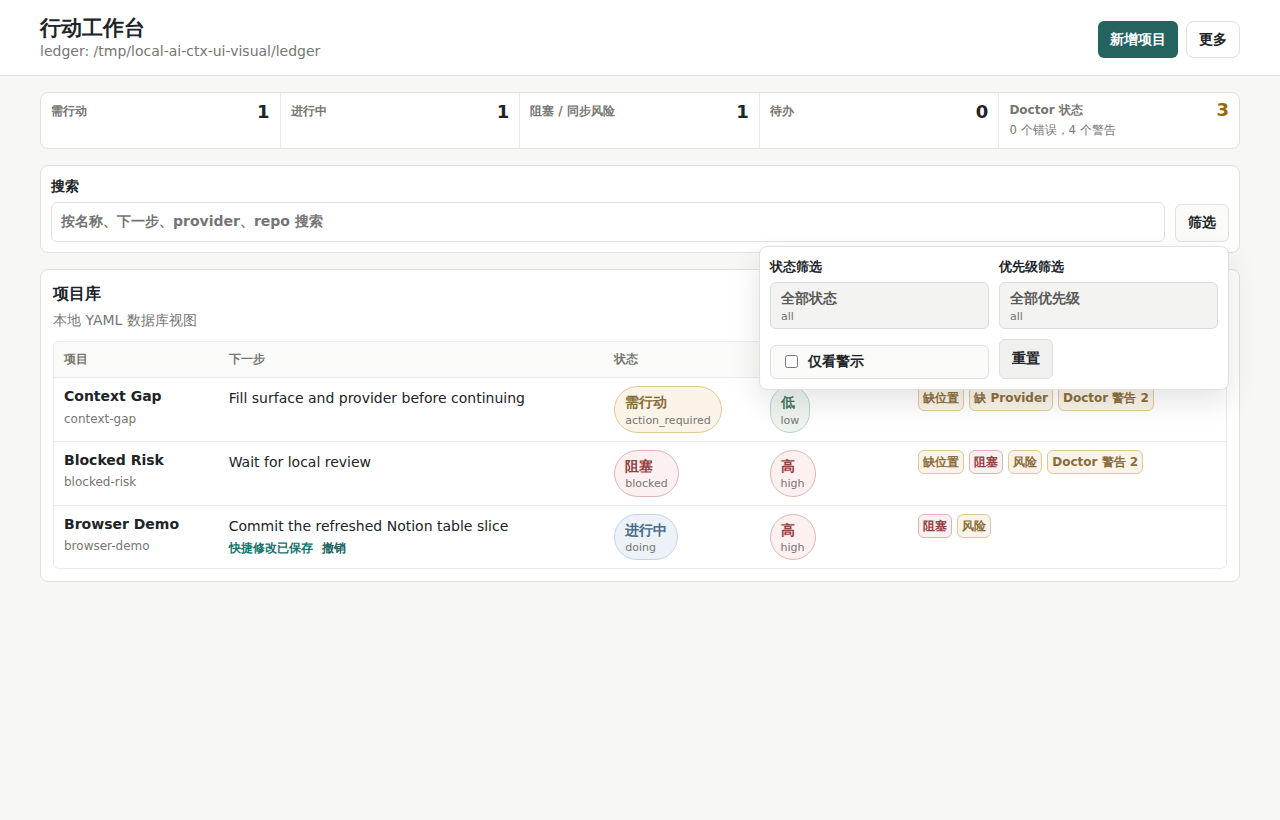
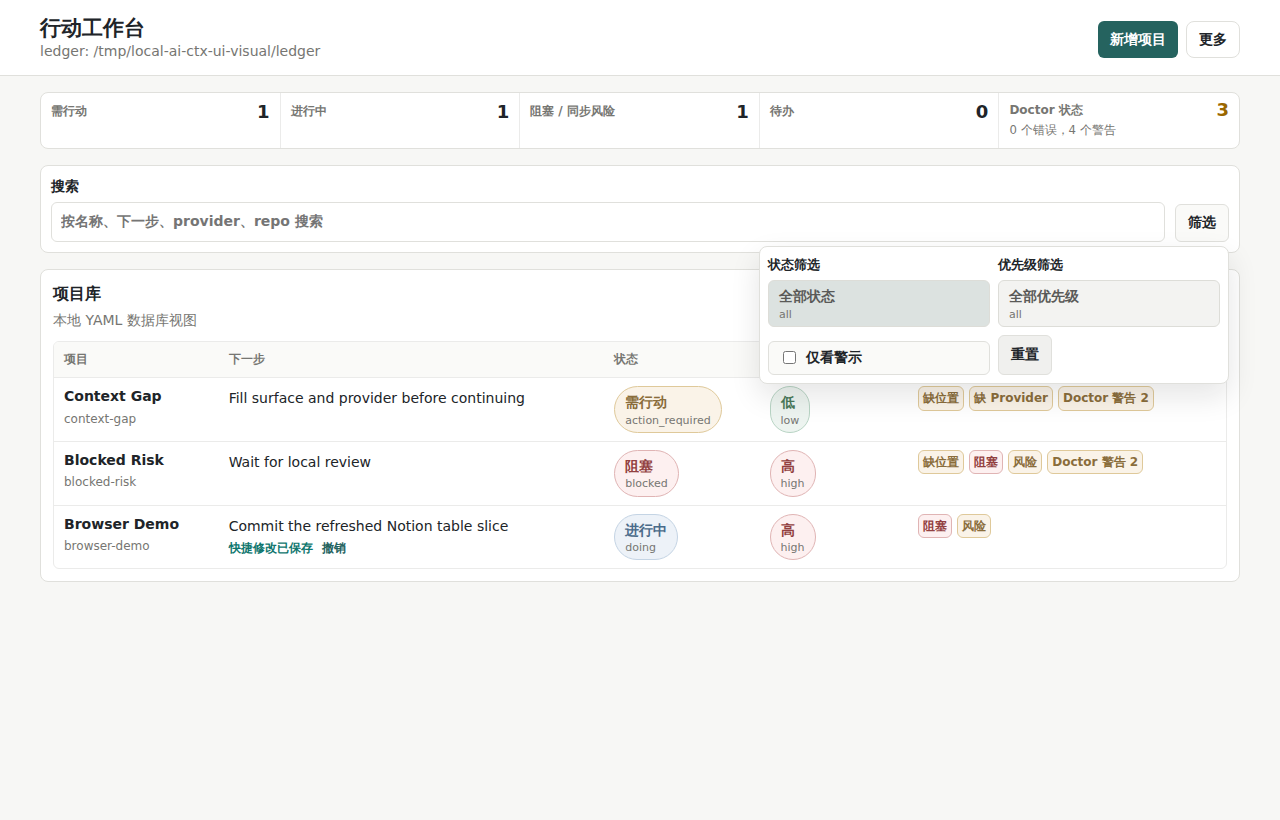
refactor(ui): Round 3 — menu coordination and interaction feedback
CSS:
- Extract .popover base class: shared position:absolute, z-index 30, border,
  border-radius, bg, shadow, padding (var(--space-2)) for all floating menus
- .more-popover/.filter-panel/.menu-popover each become thin modifier overrides
  (position offsets, width constraints, display/gap) on top of .popover base
- Rationalize z-index stacking: context-menu 30 | filter 35 | header 40 | peek 80
- Add :hover + transition to .more-menu > summary and .settings-menu summary
  (no hover state existed before — clicking "More" showed no feedback)
- Add :hover + transition to .filter-drawer > summary (same gap)
- Tokenize .filter-panel gap (10px → var(--space-2)) and remove duplicate
  border/shadow/bg declarations now covered by .popover base
- Add transition: color 200ms to .row-save-state for smooth saving→saved→idle
  color change instead of instant jump
- Add .undo-link:hover underline for affordance

HTML in ui.py:
- Add popover class to all 4 floating-menu containers:
  .more-popover, .filter-panel, .menu-popover ×2

Snapshots regenerated (minor padding/gap shifts in popover layout).
All 60 pytest + HTTP smoke + browser smoke green.

Changed region(s): [[0.5938, 0.3049, 0.9062, 0.4878]]

diff --git a/src/ctx/styles.py b/src/ctx/styles.py
@@ -171,6 +171,18 @@ STYLES = """\
       gap: var(--space-2);
     }
 
+    /* ── .popover — shared base for all floating menus ──
+       z-index layers: context-menu 30 | filter 35 | header-menu 40 | peek-layer 80  */
+    .popover {
+      position: absolute;
+      z-index: 30;
+      border: 1px solid var(--line);
+      border-radius: var(--radius-md);
+      background: var(--panel);
+      box-shadow: var(--shadow-lg);
+      padding: var(--space-2);
+    }
+
     /* ── more menu ── */
     .more-menu {
       position: relative;
@@ -184,21 +196,18 @@ STYLES = """\
       color: var(--ink);
       font-weight: var(--fw-strong);
       cursor: pointer;
+      border-radius: var(--radius-md);
+      transition: background-color 110ms;
     }
+    .more-menu > summary:hover { background: var(--bg-subtle); }
     .more-menu > summary::-webkit-details-marker { display: none; }
     .more-popover {
-      position: absolute;
       right: 0;
       top: calc(100% + var(--space-1));
       z-index: 40;
       display: grid;
       gap: var(--space-1);
       width: min(420px, calc(100vw - 32px));
-      border: 1px solid var(--line);
-      border-radius: var(--radius-md);
-      background: var(--panel);
-      box-shadow: var(--shadow-lg);
-      padding: var(--space-2);
     }
     .more-item {
       width: 100%;
@@ -247,13 +256,16 @@ STYLES = """\
       color: var(--ink);
       font-weight: var(--fw-strong);
       cursor: pointer;
+      border-radius: var(--radius-md);
+      transition: background-color 110ms;
     }
+    .settings-menu summary:hover { background: var(--bg-subtle); }
     .settings-menu summary::-webkit-details-marker { display: none; }
     .settings-menu form {
       position: absolute;
       right: 0;
       top: calc(100% + var(--space-1));
-      z-index: 20;
+      z-index: 40;
       width: min(420px, calc(100vw - 32px));
       border: 1px solid var(--line);
       border-radius: var(--radius-md);
@@ -526,22 +538,18 @@ STYLES = """\
       padding: 7px var(--space-3);
       font-weight: var(--fw-strong);
       cursor: pointer;
+      transition: background-color 110ms, border-color 110ms;
     }
+    .filter-drawer > summary:hover { background: var(--bg-subtle); border-color: var(--muted); }
     .filter-drawer > summary::-webkit-details-marker { display: none; }
     .filter-panel {
-      position: absolute;
       right: 0;
       top: calc(100% + var(--space-1));
       z-index: 35;
       display: grid;
       grid-template-columns: minmax(180px, 1fr) minmax(160px, 1fr);
-      gap: 10px;
+      gap: var(--space-2);
       width: min(470px, calc(100vw - 32px));
-      border: 1px solid var(--line);
-      border-radius: var(--radius-md);
-      background: var(--panel);
-      box-shadow: var(--shadow-lg);
-      padding: 10px;
     }
     .filter-panel .filter-toggle, .filter-panel #reset-filters { align-self: end; }
 
@@ -617,6 +625,7 @@ STYLES = """\
       color: var(--muted);
       font-size: var(--fs-xs);
       font-weight: var(--fw-strong);
+      transition: color 200ms;
     }
     .row-save-state.saving { color: var(--blue); }
     .row-save-state.saved { color: var(--ok); }
@@ -630,6 +639,7 @@ STYLES = """\
       font-size: var(--fs-xs);
       font-weight: var(--fw-strong);
     }
+    .undo-link:hover { text-decoration: underline; }
 
     /* ── choice menus / pills ── */
     .choice-menu { position: relative; min-width: 0; }
@@ -676,19 +686,12 @@ STYLES = """\
 
     /* ── menu popover ── */
     .menu-popover {
-      position: absolute;
-      z-index: 30;
       top: calc(100% + var(--space-1));
       left: 0;
       min-width: 220px;
       max-width: min(300px, calc(100vw - 24px));
       max-height: min(430px, calc(100vh - 120px));
       overflow: auto;
-      border: 1px solid var(--line);
-      border-radius: var(--radius-md);
-      background: var(--panel);
-      box-shadow: var(--shadow-lg);
-      padding: 7px;
     }
     .filter-menu .menu-popover { min-width: 100%; }
     .menu-section-title {

diff --git a/src/ctx/ui.py b/src/ctx/ui.py
@@ -481,7 +481,7 @@ def _render_home(
         <button type="button" class="btn btn--primary" id="new-project-toggle" data-panel-target="panel-create" aria-expanded="{'true' if create_feedback else 'false'}">{labels['new_project']}</button>
         <details class="more-menu" data-more-menu>
           <summary>{labels['more']}</summary>
-          <div class="more-popover">
+          <div class="popover more-popover">
             <button type="button" class="btn more-item is-active" data-nav-item="action">{labels['nav_action']}</button>
             <button type="button" class="btn more-item" data-nav-item="table">{labels['nav_library']}</button>
             <button type="button" class="btn more-item" data-nav-item="board">{labels['nav_board']}</button>
@@ -503,7 +503,7 @@ def _render_home(
         <label class="search-field"><span>{labels['search']}</span><input id="project-search" type="search" placeholder="{labels['search_placeholder']}"></label>
         <details class="filter-drawer" data-filter-menu>
           <summary>{labels['filters']}</summary>
-          <div class="filter-panel">
+          <div class="popover filter-panel">
             {_filter_menu('status', labels['status_filter'], labels['all_statuses'], language=language)}
             {_filter_menu('priority', labels['priority_filter'], labels['all_priorities'], language=language)}
             <label class="filter-toggle"><input id="alert-filter" type="checkbox"><span>{labels['alerts_only']}</span></label>
@@ -664,7 +664,7 @@ def _filter_menu(field: str, label: str, all_label: str, *, language: str) -> st
     <span data-current-label>{_e(all_label)}</span>
     <small data-current-detail>all</small>
   </button>
-  <div class="menu-popover" role="menu" hidden>
+  <div class="popover menu-popover" role="menu" hidden>
     {menu}
   </div>
 </div>
@@ -687,7 +687,7 @@ def _row_choice_control(field: str, project: Project, action: str, *, language: 
     <span data-current-label>{_e(label)}</span>
     <small data-current-detail>{_e(current.value)}</small>
   </button>
-  <div class="menu-popover" role="menu" hidden>
+  <div class="popover menu-popover" role="menu" hidden>
     {menu}
   </div>
 </div>